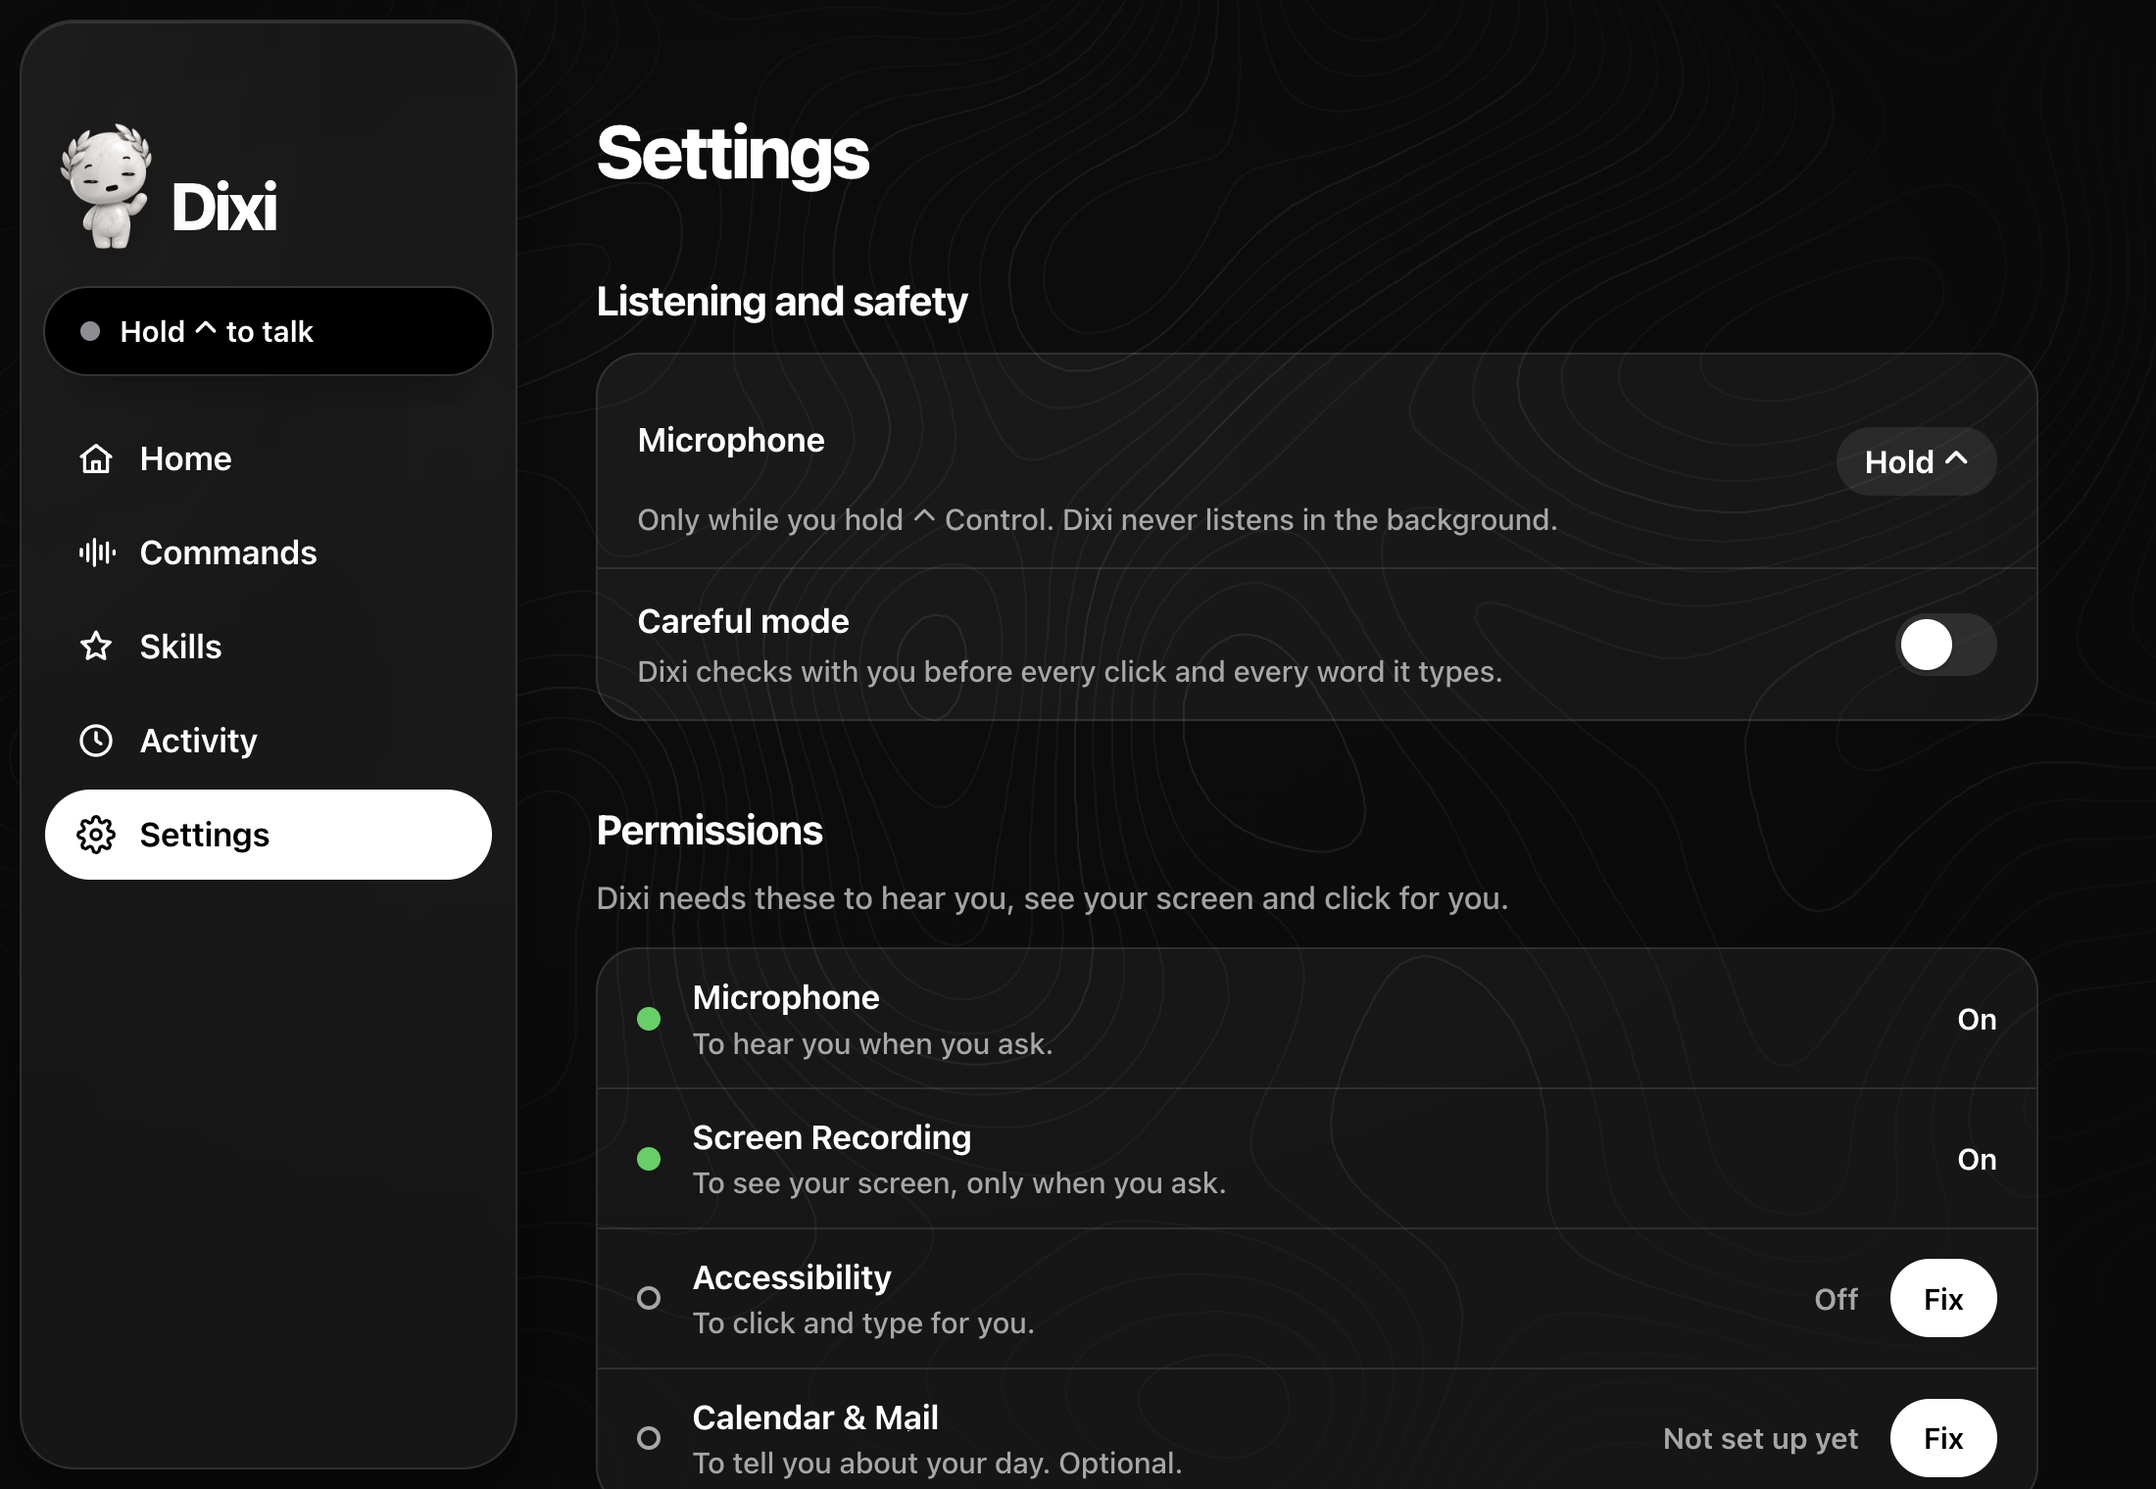
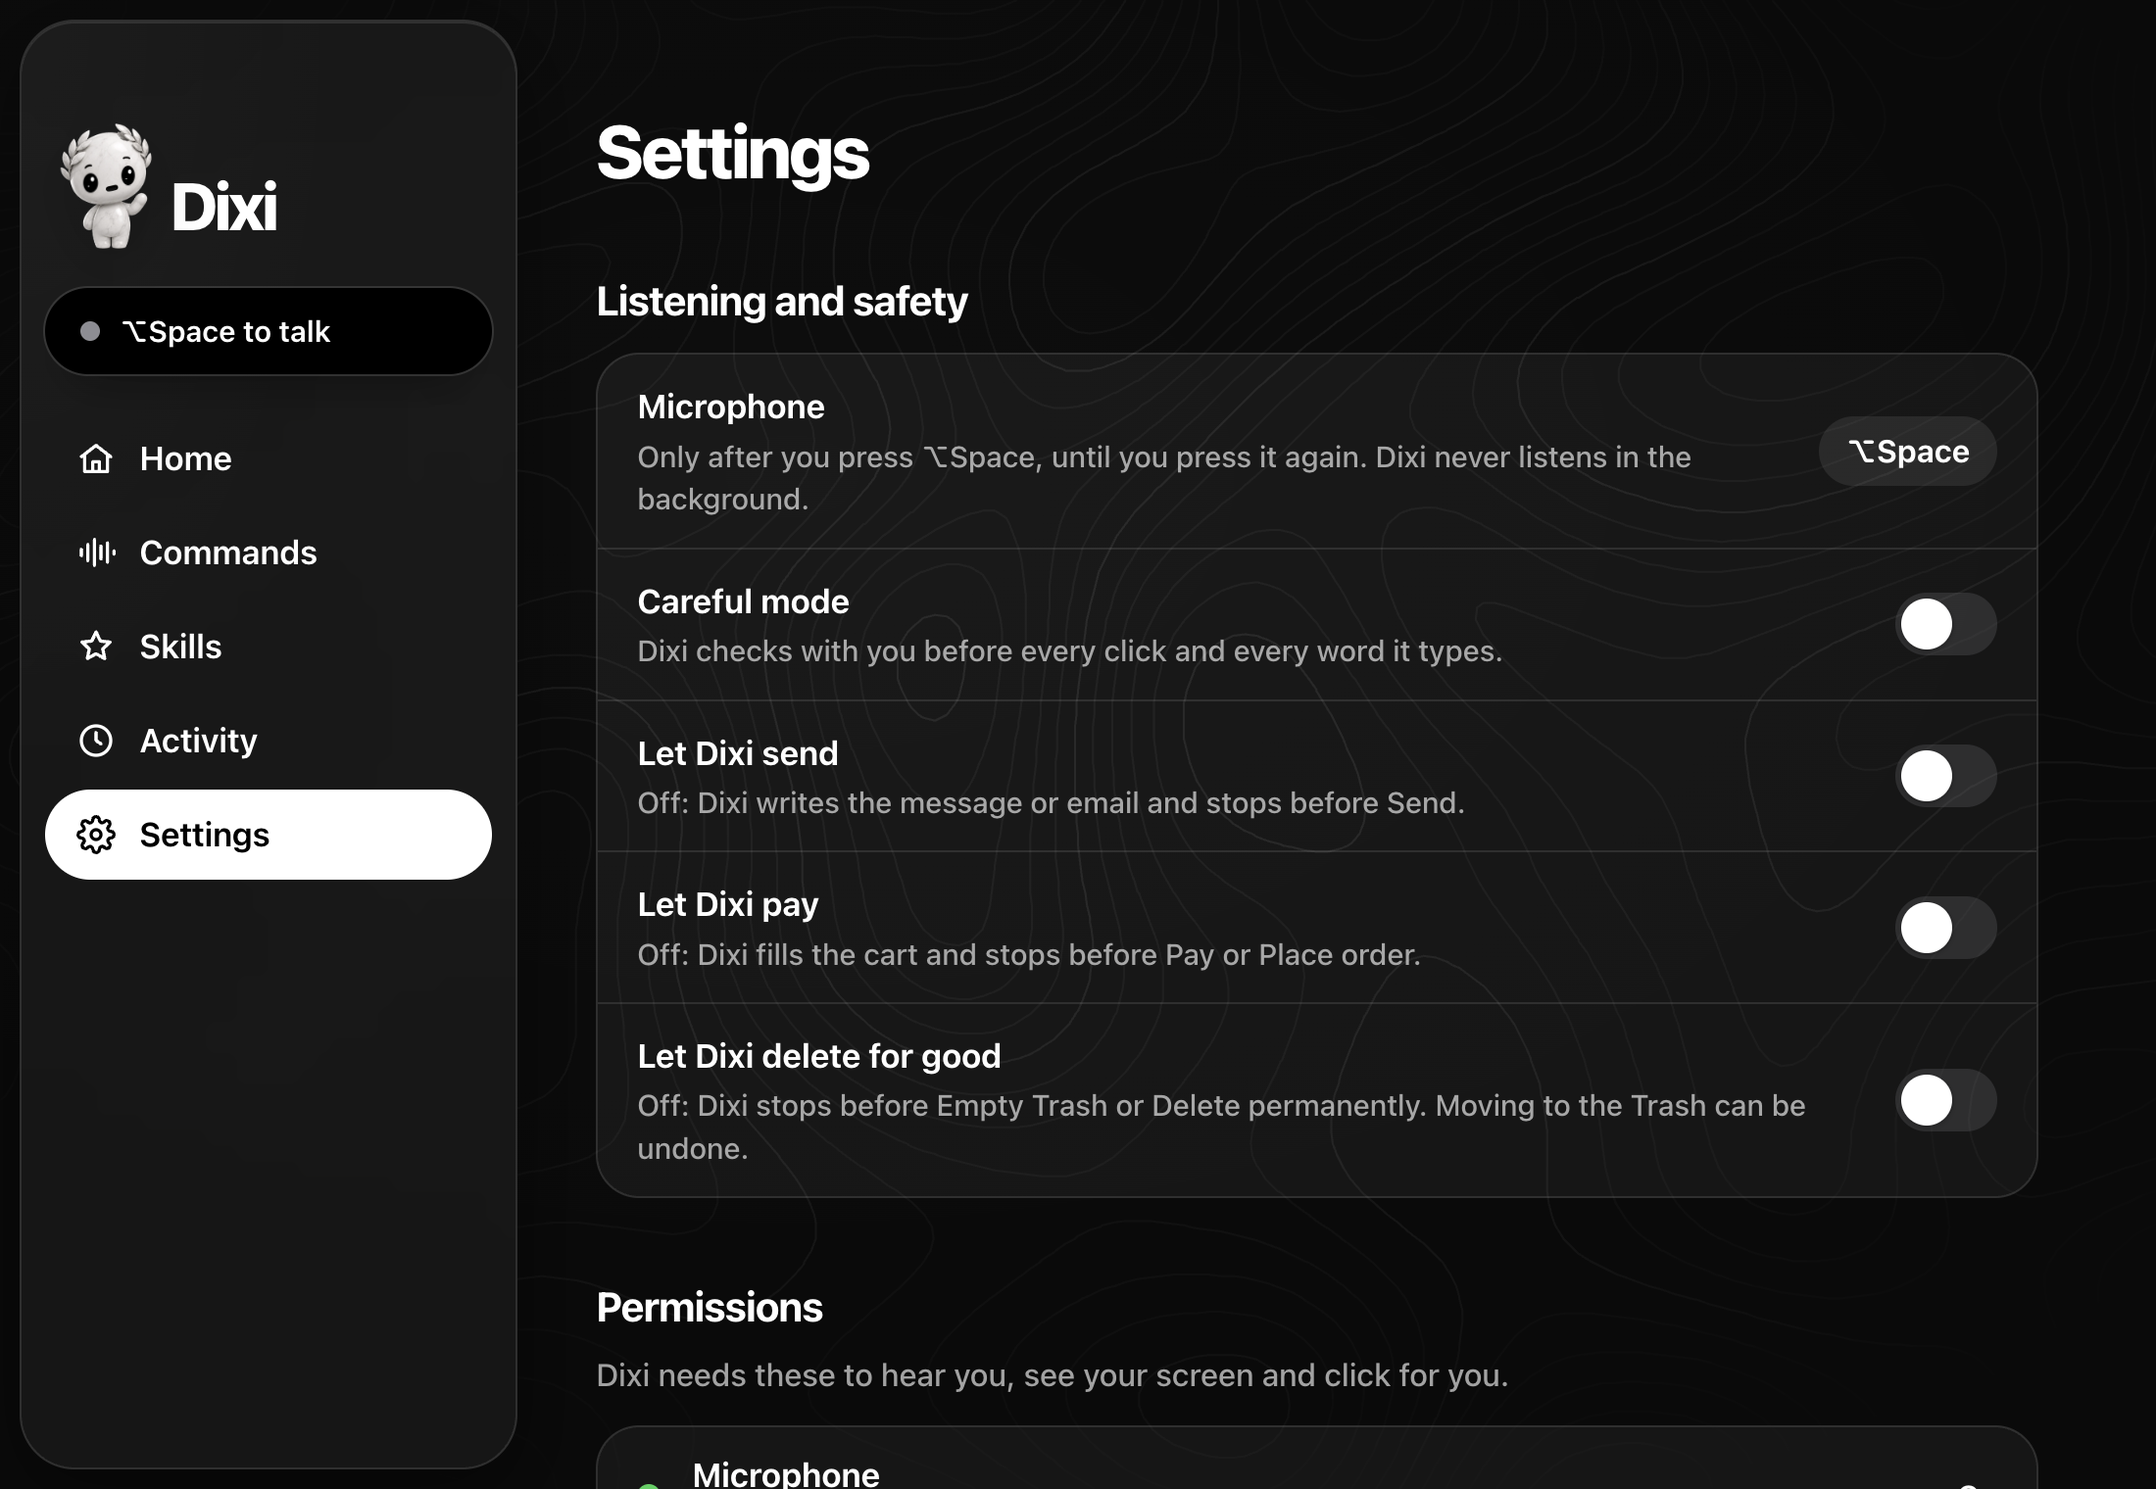
feat(safety): send, pay and delete-for-good stop one step before unless allowed in Settings (master v2 Phase 4)
heldBack(): even when the words asked for it, Send/Place order/Empty Trash are left ready with one line.
Scripts that send go through the screen steps so the same stop applies. 3 new Settings switches (off).
441/441, 15.8 s; dashboard clicks 26 -> 30/30 controls.

diff --git a/electron/src/main/everywhere.js b/electron/src/main/everywhere.js
@@ -58,6 +58,17 @@ export { ABOUT_SCREEN };
 // what the browser gates by other means (form submits).
 const DESKTOP_RISKY = /\b(submit|post|publish|share|tweet|reply all|move to (the )?trash|empty (the )?trash|trash|airdrop|erase|format disk|install|uninstall|always allow|allow|grant access|open anyway|send|join|sign ?up|upgrade|download|start (?:my |your |a |the )?(?:free )?trial|free trial|try (?:it |now |\d+ \w+ )?(?:for )?free|\d+ (?:days?|weeks?|months?) free)\b/i;   // money and commitments: sign-ups, trials, upgrades, app downloads
 const GET = /^\s*get\s*$/i;   // the App Store's install button is just "Get" ("Get Info" is not)
+// Master v2 Phase 4: sending, spending and permanent deleting are the only things Dixi won't finish on its own.
+// Unless you turned that kind on in Settings, it gets everything ready and stops one step before the final press.
+// ponytail: verb regexes on the button/question text; a control with no such word is judged by clickRisk alone.
+const FINAL = [['send', /\b(send|post|publish|tweet|reply|submit|share)\b/i], ['spend', /\b(buy|order|pay|purchas\w*|check ?out|subscribe|upgrade|trial)\b/i], ['delete', /\b(empty (the )?trash|erase|delete|permanently|forever)\b/i]];
+const ALLOW = { send: 'allowSend', spend: 'allowSpend', delete: 'allowDelete' };
+export const heldBack = (q, prefs = {}) => (prefs.careful ? null : FINAL.find(([k, re]) => re.test(String(q ?? '')) && !prefs[ALLOW[k]])?.[0] ?? null);
+const HELD = { send: 'send it', spend: 'pay', delete: 'delete it' };
+export const heldLine = (q, kind) => { const l = String(q ?? '').match(/“([^”]+)”/)?.[1]; return `It's ready. I stopped before ${l ? `“${l}”` : `the last step`}: ${kind === 'spend' ? 'pay' : 'press it'} yourself, or let Dixi ${HELD[kind]} in Settings`; };
+// A script that would send (Messages/Mail `send`, JXA .send()) or empty the Trash runs as screen steps instead,
+// so the same one-step-before stop applies.
+export const scriptFinal = (code, prefs = {}) => (prefs.careful ? null : /\bsend\b|\.send\(/i.test(code) && !prefs.allowSend ? 'send' : /\bempty\s+(the\s+)?trash\b/i.test(code) && !prefs.allowDelete ? 'delete' : null);
 export const riskyLabel = (s) => Boolean(s) && (IRREVERSIBLE.test(s.trim()) || RECURRING.test(s) || DESKTOP_RISKY.test(s) || GET.test(s));
 // Dixi asks no questions. A step that would have asked goes ahead only when the user's own words ask for it: they said
 // "send" and the button is Send. Otherwise it is refused (and a plan stops there): "Open anyway", "Always allow",
@@ -568,6 +579,8 @@ export function setupEverywhere({ config, spend, here, userData, getMainWindow, 
     const tag = c.name === 'press' ? {} : { toolset_name: 'computer' };   // press is Dixi's own tool, not the toolset's
     const ok = (content = 'OK') => ({ type: 'tool_result', tool_use_id: c.id, ...tag, content });
     const no = (q) => {
+      const held = heldBack(q, prefs);
+      if (held) { state.refusal = heldLine(q, held); return { type: 'tool_result', tool_use_id: c.id, ...tag, content: `Stopped: ${state.refusal}. Leave it ready. Don't press it another way. Tell the user in one short sentence.` }; }
       // "Press “Open Anyway”?" → "you didn't ask me to press “Open Anyway”"; "I can't tell what that button does. Press it?" → its first sentence.
       const mask = String(q).replace(/“[^”]*”/g, (m) => '_'.repeat(m.length));   // a label's own "." or "?" ends nothing
       const end = mask.indexOf('?'), cut = mask.slice(0, end).search(/[.!]\s+\S[^.!]*$/);
@@ -583,7 +596,7 @@ export function setupEverywhere({ config, spend, here, userData, getMainWindow, 
     const acted = (r, el) => { state.lastSynthetic = Date.now(); rec?.add(stepOf(c, at, el)); act.log(stepEvent(c, ctx, el)); return r; };   // (lastSynthetic: for the approve buttons)
     // Asked and approved, but stopped meanwhile: nothing happens.
     // No questions (see userAsked): only careful mode, the user's own setting, still asks.
-    const yes = async (q) => !signal.aborted && (prefs.careful ? await approve(q) : userAsked(q, state.words ?? ''));
+    const yes = async (q) => !signal.aborted && (prefs.careful ? await approve(q) : userAsked(q, state.words ?? '') && !heldBack(q, prefs));
     // Careful mode ("ask me before every step"), or an app where one switch hands over the Mac (System
     // Settings, Terminal, Installer…): every click, key and bit of typing waits for a yes.
     let asked = false;
@@ -723,6 +736,8 @@ export function setupEverywhere({ config, spend, here, userData, getMainWindow, 
     if (hits.length !== 1 || signal.aborted) return false;
     const el = hits[0], shown = quoteLabel(el.labels[0] ?? name);
     const why = clickRisk(el) || (isMoney(ctx) && `Press “${shown}” on a money page?`);
+    const held = why && heldBack(why, prefs);
+    if (held) { act.log({ kind: 'refused', text: why, app: ctx.name, role: el.role, label: el.labels[0] }); const line = heldLine(why, held); say(`${line}.`); show({ state: 'done', title: 'Ready', text: line, linger: 4000 }); return true; }
     if (why && !userAsked(why, said)) {   // never a question (careful mode went to the agent above): the user's words decide
       act.log({ kind: 'refused', text: why, app: ctx.name, role: el.role, label: el.labels[0] });
       say(`You didn't ask me to press “${shown}”, so I didn't.`); show({ state: 'done', title: 'Not pressed', text: shown, linger: 2500 }); return true;
@@ -904,6 +919,7 @@ export function setupEverywhere({ config, spend, here, userData, getMainWindow, 
         const why = await keysBlocked(s.app);
         if (why) return { ok: false, error: `${why}, so I didn't press any keys` };
       }
+      if (scriptFinal(s.code, prefs)) return doStep({ do: 'computer', clause: s.clause, app: s.app }, prior, signal);   // composed on screen, stops before Send
       let r = await runScript({ lang: s.lang, code: s.code });
       if (!r.ok && !r.refused && !signal.aborted) {   // one repair, then the screen agent does it
         const j = await claude({ model: 'claude-haiku-5-5', max_tokens: 400, thinking: { type: 'disabled' },
@@ -1558,7 +1574,7 @@ export function setupEverywhere({ config, spend, here, userData, getMainWindow, 
       commands, actions: ACTIONS, builtins: BUILTINS, watching: state.watching ?? null,
       skills: listSkills(userData).map((x) => ({ id: x.id, name: x.name, app: x.app ?? '', steps: x.steps.length })),
       activity: act.read({ since: Date.now() - 7 * 864e5 }).slice(-80).reverse().map((e) => ({ t: e.t, kind: e.kind, line: lineOf(e) })),
-      prefs: { careful: Boolean(prefs.careful), large: Boolean(prefs.large), contrast: Boolean(prefs.contrast), sounds: prefs.sounds !== false },
+      prefs: { careful: Boolean(prefs.careful), allowSend: Boolean(prefs.allowSend), allowSpend: Boolean(prefs.allowSpend), allowDelete: Boolean(prefs.allowDelete), large: Boolean(prefs.large), contrast: Boolean(prefs.contrast), sounds: prefs.sounds !== false },
       perms: permStatus(permsNow()), keys: { ask: label(KEY), stop: 'Esc', select: label(SEL_KEY), kill: label(KILL_KEY), yes: '⌥↩' },
     }),
     saveCommands: (list) => { const r = saveCommands(commandsFile, list); if (r.ok) { commands = r.commands; phrasesToMain(); } return r; },
@@ -1661,5 +1677,5 @@ export function setupEverywhere({ config, spend, here, userData, getMainWindow, 
   // The speech connection dropped mid-session (deepgram.js retries and replays the audio): say so, not a frozen "Listening…".
   const reconnecting = (on) => { if (ptt.open && !busy()) show({ state: 'listening', text: on ? 'Reconnecting…' : '' }); };
   // ponytail: hold-⌃ runs a 30 Hz osascript poll, so it's opt-in (DIXI_HOLD_CTRL=1 or prefs.holdCtrl); ⌥Space is the default.
-  return { enabled: true, keepsRunning: true, stop, tray, level, reconnecting, control: env.DIXI_HOLD_CTRL === '1' || prefs.holdCtrl ? control : null, toggle, showDashboard: env.DIXI_START !== 'browser' ? openDash : null };
+  return { enabled: true, keepsRunning: true, stop, tray, level, reconnecting, control: env.DIXI_HOLD_CTRL === '1' || prefs.holdCtrl ? control : null, toggle, set: (k, v) => dashApi.set(k, v), showDashboard: env.DIXI_START !== 'browser' ? openDash : null };
 }

diff --git a/electron/test/unit/redteam2.test.js b/electron/test/unit/redteam2.test.js
@@ -139,11 +139,15 @@ test('"click X" by name: pressed when the words name it, skipped with one line w
   const SEND = { ...SAVE, labels: ['Send'] }, WIDE = { ...SAVE, labels: ['Delete Account'] };
   await agentDoes([], { named: [SEND] }, 'click Send');
   assert.equal(asked.length, 0, 'nothing was asked');
-  assert.ok(done.some(([w]) => w === 'press'), 'Send was pressed');
+  assert.ok(!done.some(([w]) => w === 'press') && spoken.some((s) => /stopped before “Send”/.test(s)), `sending off (default): ready, not pressed: ${spoken} ${JSON.stringify(done)}`);
+  ewApi.set('allowSend', true);
+  await agentDoes([], { named: [SEND] }, 'click Send');
+  ewApi.set('allowSend', false);
+  assert.ok(done.some(([w]) => w === 'press'), 'sending allowed: Send was pressed');
   await agentDoes([], { named: [WIDE] }, 'click delete');   // the one match reaches past what was said
   assert.equal(asked.length, 0, 'nothing was asked');
   assert.ok(!done.some(([w]) => w === 'press'), 'Delete Account was not pressed');
-  assert.ok(spoken.some((s) => /didn't ask me to press “Delete Account”/.test(s)), 'and the reason was said');
+  assert.ok(spoken.some((s) => /stopped before “Delete Account”/.test(s)), 'and the reason was said (deleting is off)');
 });
 
 test('a form uses your profile without asking: said on the card, logged without its values', mac, async () => {
@@ -183,8 +187,10 @@ test('a risky named control is never asked about: refused unless the user said i
   await agentDoes([{ name: 'press', input: { ref: 1 } }], { controls: [SEND] });   // "organize these notes": nobody said send
   assert.equal(asked.length, 0, 'nothing was asked');
   assert.ok(!done.some(([w]) => w === 'press'), 'and Send was not pressed');
-  assert.ok(spoken.some((s) => /didn't ask me to press “Send”/.test(s)), 'and the reason was said');
+  assert.ok(spoken.some((s) => /stopped before “Send”/.test(s)), 'and the reason was said');
+  ewApi.set('allowSend', true);
   await agentDoes([{ name: 'press', input: { ref: 1 } }], { controls: [SEND] }, 'send it to Alex');
+  ewApi.set('allowSend', false);
   assert.equal(asked.length, 0, 'nothing was asked');
   assert.ok(done.some(([w]) => w === 'press'), 'the user said send, so it was pressed');
 });
@@ -429,4 +435,25 @@ test('"[everywhere] fetch failed": a dropped socket is retried once on a fresh o
     await agentDoes([]);
     assert.ok(spoken.some((s) => /couldn't reach the internet/.test(s)) && !spoken.some((s) => /fetch failed/.test(s)), `plain line: ${spoken}`);
   } finally { globalThis.fetch = real; quiet(); }
+});
+
+test('Phase 4: send, pay and delete-for-good stop one step before, unless that kind is allowed in Settings; everything else just happens', async () => {
+  const { heldBack, heldLine, scriptFinal } = await import('../../src/main/everywhere.js');
+  assert.equal(heldBack('Press “Send”?', {}), 'send');
+  assert.equal(heldBack('Press “Place order”?', {}), 'spend');
+  assert.equal(heldBack('Press “Empty Trash”?', {}), 'delete');
+  assert.equal(heldBack('Press Enter? It may send or submit.', {}), 'send');
+  assert.equal(heldBack('Press “Send”?', { allowSend: true }), null, 'allowed in Settings');
+  assert.equal(heldBack('Press “Send”?', { careful: true }), null, 'careful mode asks instead');
+  assert.equal(heldBack('Press “Open anyway”?', {}), null, 'not a send/pay/delete: userAsked decides');
+  assert.match(heldLine('Press “Send”?', 'send'), /stopped before “Send”.*Settings/);
+  assert.equal(scriptFinal('tell application "Messages" to send "hi" to buddy "Mom"', {}), 'send');
+  assert.equal(scriptFinal('tell application "Messages" to send "hi" to buddy "Mom"', { allowSend: true }), null);
+  assert.equal(scriptFinal('tell application "Music" to play', {}), null);
+});
+
+test('Phase 4: "send it" said out loud still stops before Send when sending is off', mac, async () => {
+  await agentDoes([{ name: 'press', input: { ref: 1 } }], { controls: [{ ...SAVE, labels: ['Send'] }] }, 'send it to Alex');
+  assert.ok(!done.some(([w]) => w === 'press' || w === 'click'), `pressed: ${JSON.stringify(done)}`);
+  assert.equal(asked.length, 0, 'nothing asked');
 });

diff --git a/electron/src/renderer/dashboard/dashboard.html b/electron/src/renderer/dashboard/dashboard.html
@@ -156,6 +156,27 @@
             </div>
             <input type="checkbox" role="switch" class="switch" id="careful-set" data-pref="careful" aria-describedby="careful-set-d">
           </div>
+          <div class="setting">
+            <div>
+              <label for="allowSend-set" class="setting-name">Let Dixi send</label>
+              <p class="setting-desc" id="allowSend-set-d">Off: Dixi writes the message or email and stops before Send.</p>
+            </div>
+            <input type="checkbox" role="switch" class="switch" id="allowSend-set" data-pref="allowSend" aria-describedby="allowSend-set-d">
+          </div>
+          <div class="setting">
+            <div>
+              <label for="allowSpend-set" class="setting-name">Let Dixi pay</label>
+              <p class="setting-desc" id="allowSpend-set-d">Off: Dixi fills the cart and stops before Pay or Place order.</p>
+            </div>
+            <input type="checkbox" role="switch" class="switch" id="allowSpend-set" data-pref="allowSpend" aria-describedby="allowSpend-set-d">
+          </div>
+          <div class="setting">
+            <div>
+              <label for="allowDelete-set" class="setting-name">Let Dixi delete for good</label>
+              <p class="setting-desc" id="allowDelete-set-d">Off: Dixi stops before Empty Trash or Delete permanently. Moving to the Trash can be undone.</p>
+            </div>
+            <input type="checkbox" role="switch" class="switch" id="allowDelete-set" data-pref="allowDelete" aria-describedby="allowDelete-set-d">
+          </div>
         </div>
 
         <h2 class="sub">Permissions</h2>

diff --git a/electron/src/main/dashboard.js b/electron/src/main/dashboard.js
@@ -7,7 +7,7 @@ const { BrowserWindow, ipcMain } = electron;
 
 const d = { win: null, api: null, hooked: false };
 const OPEN = /^(?:browser|setup|profile|tasks|pane:(?:mic|screen|ax|automation))$/;
-const KEYS = new Set(['careful', 'large', 'contrast', 'sounds']);
+const KEYS = new Set(['careful', 'allowSend', 'allowSpend', 'allowDelete', 'large', 'contrast', 'sounds']);
 
 export function openDashboard({ here, api }) {
   d.api = api;
